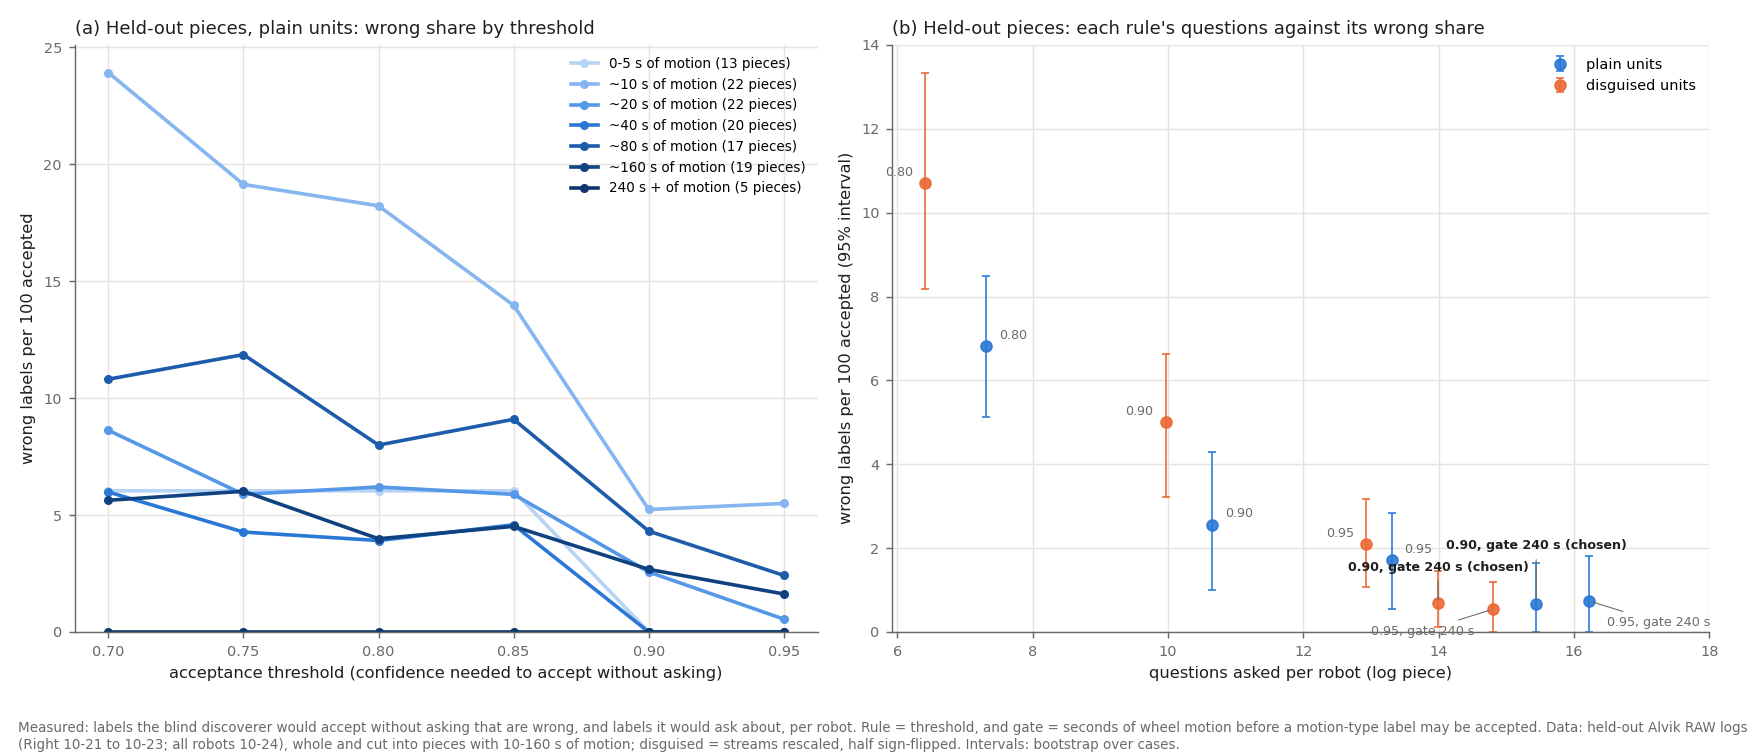
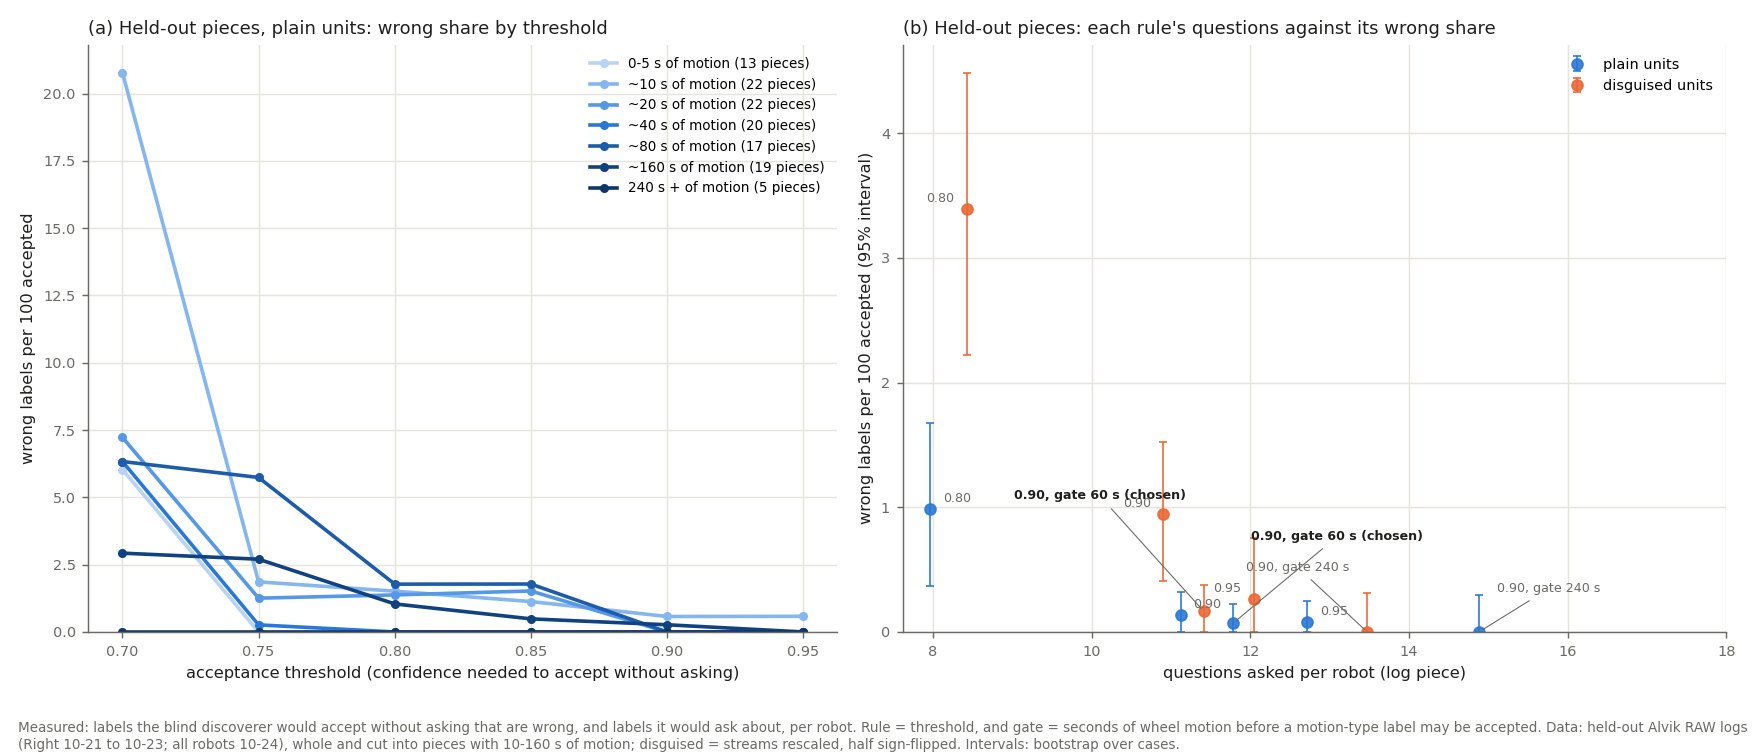
Discovery threshold rerun in progress (logs only)
Claude-Session: https://claude.ai/code/session_016gn8BDw2z1DBU9KvexE4En

diff --git a/tools/discovery/threshold_chart.py b/tools/discovery/threshold_chart.py
@@ -52,7 +52,7 @@ def main():
 
     ch = ru["chosen"]
     for v in ("plain", "disguised"):
-        keep = {(0.80, 0), (0.90, 0), (0.95, 0), (0.90, 240), (0.95, 240)}
+        keep = {(0.80, 0), (0.90, 0), (0.95, 0), (0.90, 60), (0.90, 240)}
         pts = [c for c in ru["rules"] if c["side"] == "heldout" and c["variant"] == v and
                (round(c["threshold"], 2), c["gate_s"]) in keep]
         for c in pts:
@@ -65,9 +65,9 @@ def main():
             if c["gate_s"] == 0:
                 off, ha = ((7, 4), "left") if v == "plain" else ((-7, 4), "right")
             elif chosen:
-                off, ha = ((0, 30), "center") if v == "plain" else ((0, 18), "center")
+                off, ha = ((10, 46), "left") if v == "plain" else ((-10, 62), "right")
             else:
-                off, ha = ((10, -14), "left") if v == "plain" else ((-10, -14), "right")
+                off, ha = ((10, 22), "left") if v == "plain" else ((-10, 34), "right")
             b.annotate(txt + (" (chosen)" if chosen else ""), (x, y), xytext=off, ha=ha,
                        textcoords="offset points", fontsize=7, color=INK if chosen else MUTED,
                        fontweight="bold" if chosen else "normal",
